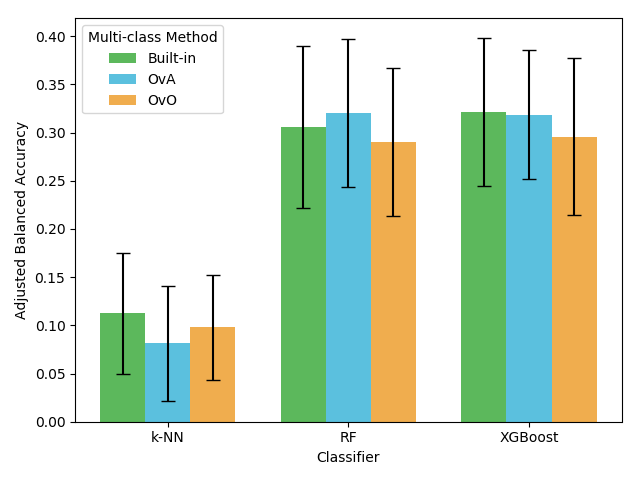
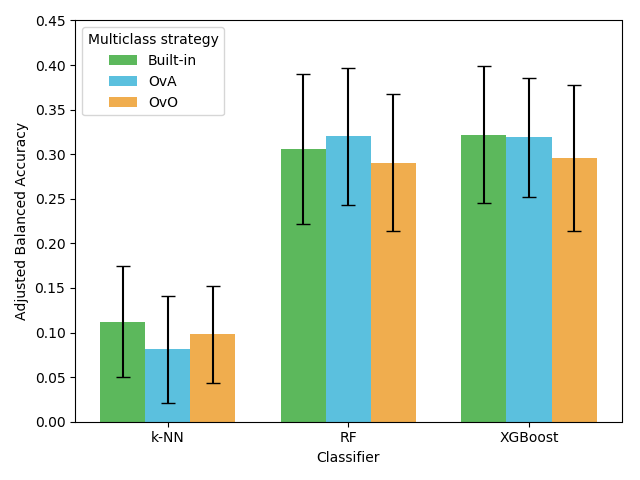
plots updated

diff --git a/Classification/classification_plotter.py b/Classification/classification_plotter.py
@@ -10,9 +10,10 @@ from sklearn.metrics import auc, precision_recall_curve, average_precision_score
 
 from Util import compose_filename, compose_configuration, output_filename
 
-color_dict = {'green': '#5cb85c', 'blue': '#5bc0de', 'orange': '#f0ad4e', 'red': '#d9534f'}
+color_dict = {'green': '#5cb85c', 'blue': '#5bc0de', 'orange': '#f0ad4e', 'red': '#d9534f', 'silver': '#c0c0c0',
+              'dimgray': '#696969'}
 color_phase_dict = {'immediate-early': color_dict['blue'], 'early': color_dict['green'], 'late': color_dict['orange'],
-                    'latent': color_dict['red']}
+                    'latent': color_dict['red'], 'micro': color_dict['silver'], 'macro': color_dict['dimgray']}
 color_ml_dict = {'ML': color_dict['green'], '1vsA': color_dict['blue'], 'RR': color_dict['orange']}
 
 
@@ -50,6 +51,8 @@ class ClassificationPlotter:
         self.YMAX = {
             "ba": 0.65,
             "a_ba": 0.45,
+            "roc_auc_ovo": 0.85,
+            "roc_auc_ovr": 0.85
         }
 
         self.MULTI_CLASS_NAME = {
@@ -116,10 +119,10 @@ class ClassificationPlotter:
         plt.xticks(index + bar_width, [self.CLASSIFIER_NAME[cl] for cl in list(self.results.values())[0].keys()])
         plt.xlabel('Classifier')
         plt.ylabel(self.YLABEL[score_metric])
-        plt.legend(title='Multi-class Method')
+        plt.legend(title='Multiclass strategy')
         plt.tight_layout()
         filename = output_filename(self.config['output_bar_plot_directory'], self.config['filter_latent'],
-                                    self.config['standardization'], n_pca, self.SAVE_TITLE[score_metric], self.name, '')
+                                   self.config['standardization'], n_pca, self.SAVE_TITLE[score_metric], self.name, '')
         plt.savefig(filename)
         plt.close()
         print()
@@ -143,20 +146,20 @@ class ClassificationPlotter:
         mean_auc = auc(mean_fpr, mean_tpr)
         std_auc = np.std(aucs)
 
-        plt.plot(mean_fpr, mean_tpr, ls, lw=3, label=r'%s (AUC = %0.2f $\pm$ %0.2f)' % (label, mean_auc, std_auc))
+        plt.plot(mean_fpr, mean_tpr, ls, color=color_phase_dict[class_], lw=3,
+                 label=r'%s (AUC = %0.2f $\pm$ %0.2f)' % (label, mean_auc, std_auc))
 
     def plot_roc(self, ml_method, classifier, n_pca):
         title = compose_configuration(f'ROC curves of {ml_method} {classifier}', self.config['filter_latent'],
                                       self.config['standardization'], n_pca, self.name)
         print(f"Plotting {title}")
 
-        plt.figure(figsize=(8, 6))
+        plt.figure(figsize=(6, 4.5))
 
-        self.plot_roc_class(ml_method, classifier, 'micro', f'micro-average ROC curve', ':')
-        self.plot_roc_class(ml_method, classifier, 'macro', f'macro-average ROC curve', ':')
-
-        for class_ in ['early', 'immediate-early', 'late']:
-            self.plot_roc_class(ml_method, classifier, class_, f'Mean ROC curve of {class_}', '-')
+        for class_ in ['immediate-early', 'early', 'late']:
+            self.plot_roc_class(ml_method, classifier, class_, f'{class_}', '-')
+        self.plot_roc_class(ml_method, classifier, 'micro', f'micro-average', ':')
+        self.plot_roc_class(ml_method, classifier, 'macro', f'macro-average', ':')
 
         plt.plot([0, 1], [0, 1], 'k--')
         plt.xlim([0.0, 1.0])
@@ -164,10 +167,11 @@ class ClassificationPlotter:
         plt.xlabel('False Positive Rate')
         plt.ylabel('True Positive Rate')
         plt.legend()
-        plt.title(title)
+        # plt.title(title)
         plt.tight_layout()
         filename = compose_filename(self.config['output_roc_curves_plot_directory'], self.config['filter_latent'],
-                                    self.config['standardization'], n_pca, f'ROC_curves_{ml_method}_{classifier}',
+                                    self.config['standardization'], n_pca,
+                                    f'ROC_{self.MULTI_CLASS_NAME[ml_method]}_{self.CLASSIFIER_NAME[classifier]}',
                                     self.name, '')
         plt.savefig(filename)
         plt.close()
@@ -178,28 +182,29 @@ class ClassificationPlotter:
 
         precision, recall, _ = precision_recall_curve(y_real, y_proba)
         ap = average_precision_score(y_real, y_proba, average='weighted')
-        plt.plot(recall, precision, ls, lw=2.5, label=r'%s (AP = %0.2f)' % (label, ap))
+        plt.plot(recall, precision, ls, lw=2.5, color=color_phase_dict[class_], label=r'%s (AP = %0.2f)' % (label, ap))
 
     def plot_pr(self, ml_method, classifier, n_pca):
         title = compose_configuration(f'PR curves of {ml_method} {classifier}', self.config['filter_latent'],
                                       self.config['standardization'], n_pca, self.name)
         print(f"Plotting {title}")
-        plt.figure(figsize=(8, 6))
+        plt.figure(figsize=(6, 4.5))
 
-        self.plot_pr_class(ml_method, classifier, 'micro', f'micro-average PR curve', ':')
+        self.plot_pr_class(ml_method, classifier, 'micro', f'micro-average', ':')
 
-        for class_ in ['early', 'immediate-early', 'late']:
-            self.plot_pr_class(ml_method, classifier, class_, f'Mean PR curve of {class_}', '-')
+        for class_ in ['immediate-early', 'early', 'late']:
+            self.plot_pr_class(ml_method, classifier, class_, f'{class_}', '-')
 
         plt.legend()
-        plt.title(title)
+        # plt.title(title)
         plt.xlim([0.0, 1.0])
         plt.ylim([0.0, 1.05])
         plt.xlabel('Recall')
         plt.ylabel('Precision')
         plt.tight_layout()
         filename = compose_filename(self.config['output_pr_curves_plot_directory'], self.config['filter_latent'],
-                                    self.config['standardization'], n_pca, f'PR_curves_{ml_method}_{classifier}',
+                                    self.config['standardization'], n_pca,
+                                    f'PR_{self.MULTI_CLASS_NAME[ml_method]}_{self.CLASSIFIER_NAME[classifier]}',
                                     self.name, '')
         plt.savefig(filename)
         plt.close()
